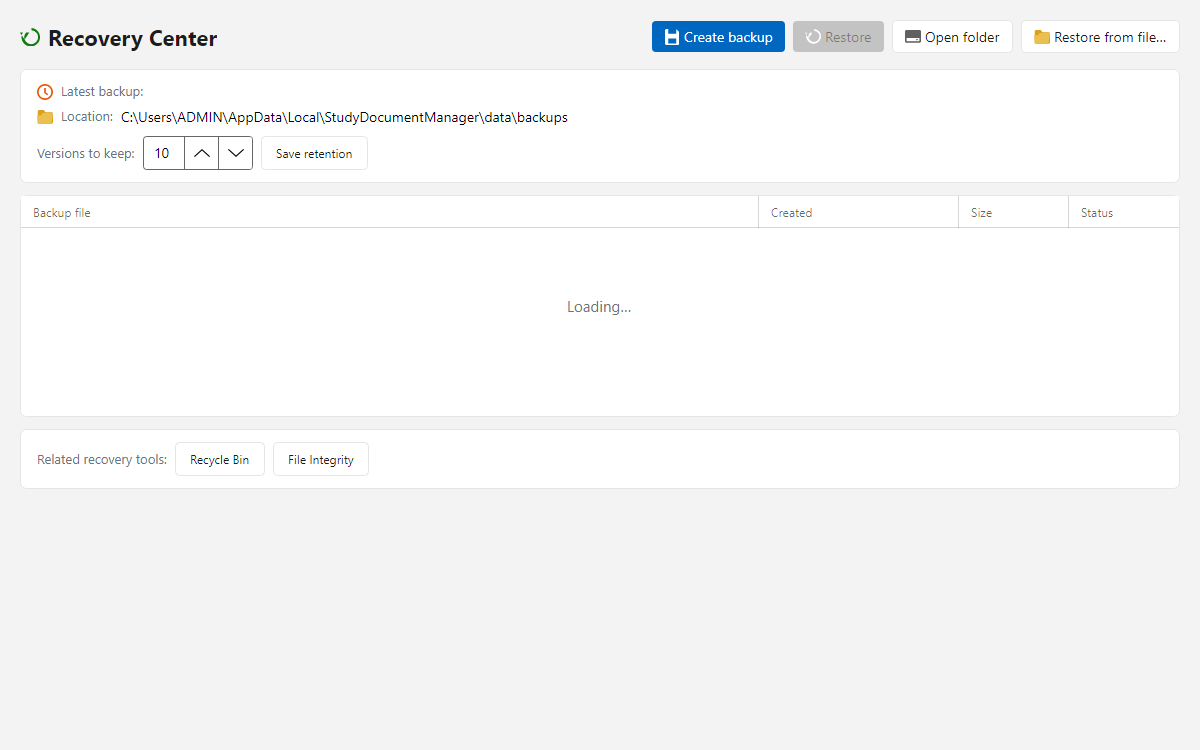
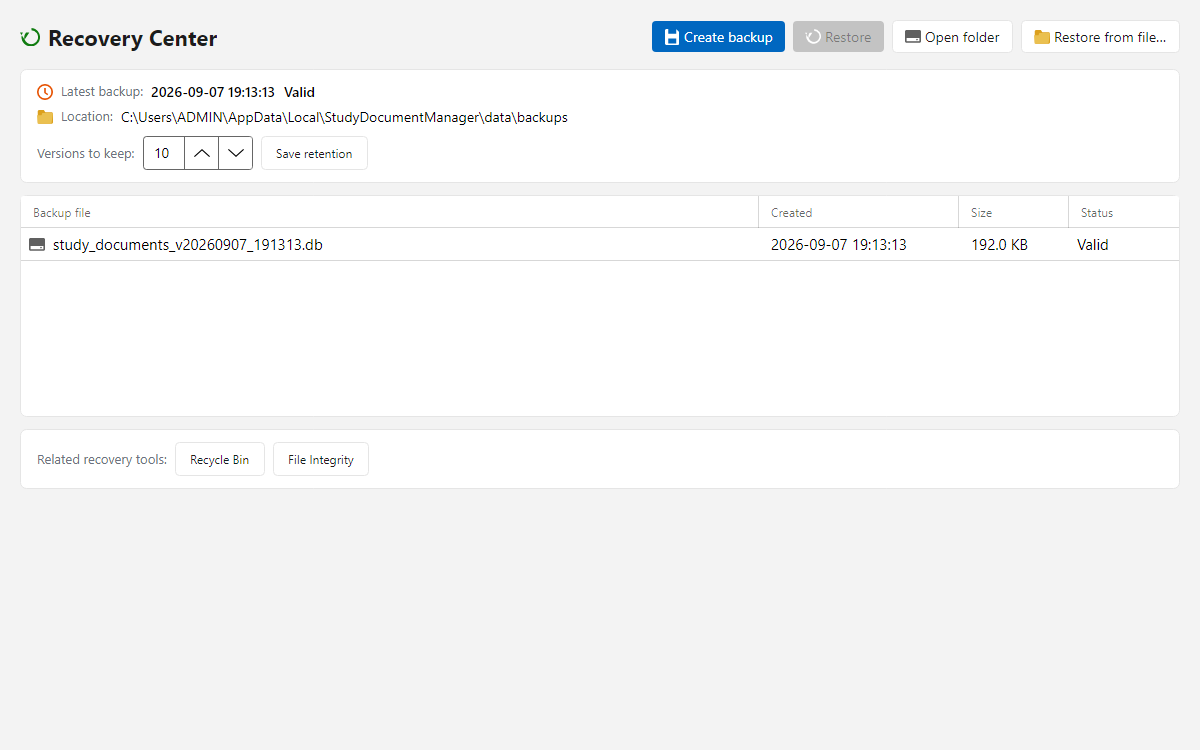
fix(ui): ダッシュボード下部のフォルダ展開・パスコピー機能の修正およびIconFolderリソース追加

diff --git a/StudyDocumentManager/Models/DashboardModel.cs b/StudyDocumentManager/Models/DashboardModel.cs
@@ -1015,16 +1015,31 @@ public partial class DashboardModel : ModelBase, IDisposable
         _navigationService.NavigateTo("related-docs", (SelectedDocument.Id, SelectedDocument.Name));
     }
 
-    // ——— Context menu actions ——— 
     [RelayCommand]
     private async Task CopyPathAsync()
     {
-        if (SelectedDocument == null || string.IsNullOrEmpty(SelectedDocument.FilePath)) return;
+        var doc = SelectedDocument ?? Documents.FirstOrDefault();
+        if (doc == null)
+        {
+            await _dialogService.ShowMessageAsync(_loc["Dialog_Notice"], _loc["Dashboard_EmptyState"]);
+            return;
+        }
+
+        if (string.IsNullOrEmpty(doc.FilePath))
+        {
+            await _dialogService.ShowMessageAsync(_loc["Dialog_Notice"], _loc["Integrity_FileNotExist"]);
+            return;
+        }
+
         try
         {
-            await _clipboardService.SetTextAsync(SelectedDocument.FilePath);
+            await _clipboardService.SetTextAsync(doc.FilePath);
+            SetLocalizedStatus("Integrity_PathCopied");
         }
-        catch { }
+        catch (Exception ex)
+        {
+            await _dialogService.ShowErrorAsync(_loc["Dialog_Error"], ex.Message);
+        }
     }
 
     [RelayCommand]
@@ -1140,14 +1155,43 @@ public partial class DashboardModel : ModelBase, IDisposable
     }
 
     [RelayCommand]
-    private void OpenFolder()
+    private async Task OpenFolderAsync()
     {
-        if (SelectedDocument == null || string.IsNullOrEmpty(SelectedDocument.FilePath)) return;
+        var doc = SelectedDocument ?? Documents.FirstOrDefault();
+        if (doc == null)
+        {
+            await _dialogService.ShowMessageAsync(_loc["Dialog_Notice"], _loc["Dashboard_EmptyState"]);
+            return;
+        }
+
+        if (string.IsNullOrEmpty(doc.FilePath))
+        {
+            await _dialogService.ShowMessageAsync(_loc["Dialog_Notice"], _loc["Integrity_FileNotExist"]);
+            return;
+        }
+
+        var path = doc.FilePath;
+        var dir = Directory.Exists(path) ? path : Path.GetDirectoryName(path);
+
+        if (string.IsNullOrEmpty(dir) || !Directory.Exists(dir))
+        {
+            var confirmed = await _dialogService.ShowConfirmAsync(
+                _loc["Dialog_Notice"],
+                _loc["Dashboard_FileMissingMessage"],
+                _loc["Menu_FileCheck"]);
+            if (confirmed)
+                _navigationService.NavigateTo("fileintegrity");
+            return;
+        }
+
         try
         {
-            _processLauncher.RevealInExplorer(SelectedDocument.FilePath);
+            _processLauncher.RevealInExplorer(path);
         }
-        catch { }
+        catch (Exception ex)
+        {
+            await _dialogService.ShowErrorAsync(_loc["Dialog_Error"], ex.Message);
+        }
     }
 
     // 期限クイックフィルター

diff --git a/StudyDocumentManager/Services/ProcessLauncherService.cs b/StudyDocumentManager/Services/ProcessLauncherService.cs
@@ -40,11 +40,24 @@ public class ProcessLauncherService : IProcessLauncherService
 
     public void RevealInExplorer(string filePath)
     {
+        if (string.IsNullOrWhiteSpace(filePath))
+            return;
+
         if (_platformInfo.IsLinux)
         {
-            var directory = Path.GetDirectoryName(filePath);
+            var directory = Directory.Exists(filePath) ? filePath : Path.GetDirectoryName(filePath);
             if (!string.IsNullOrEmpty(directory) && Directory.Exists(directory))
                 StartLinuxTarget(directory);
+            return;
+        }
+
+        if (Directory.Exists(filePath))
+        {
+            _startProcess(new ProcessStartInfo
+            {
+                FileName = "explorer.exe",
+                Arguments = $"\"{filePath}\""
+            });
             return;
         }
 

diff --git a/StudyDocumentManager/Services/ClipboardService.cs b/StudyDocumentManager/Services/ClipboardService.cs
@@ -13,7 +13,8 @@ public class ClipboardService : IClipboardService
         {
             if (Application.Current?.ApplicationLifetime is IClassicDesktopStyleApplicationLifetime desktop)
             {
-                var clipboard = desktop.MainWindow?.Clipboard;
+                var window = desktop.MainWindow ?? (desktop.Windows.Count > 0 ? desktop.Windows[0] : null);
+                var clipboard = window?.Clipboard ?? (window != null ? Avalonia.Controls.TopLevel.GetTopLevel(window)?.Clipboard : null);
                 if (clipboard != null)
                 {
                     await clipboard.SetTextAsync(text ?? string.Empty);
